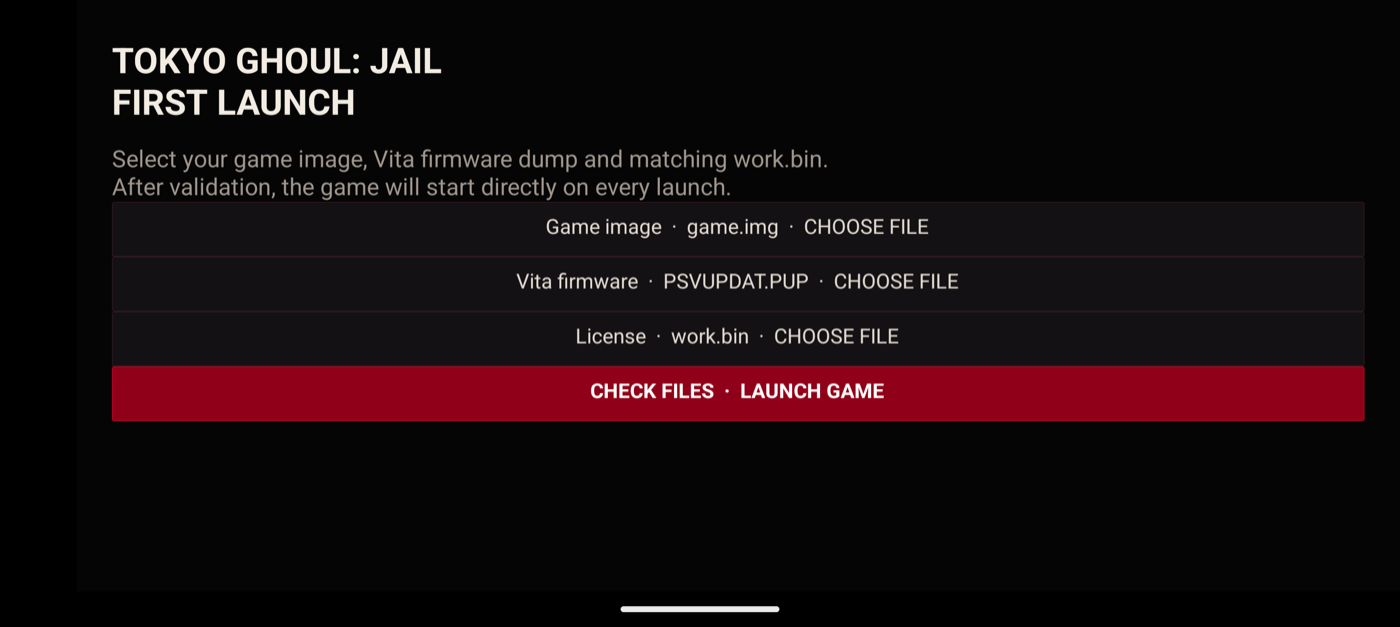
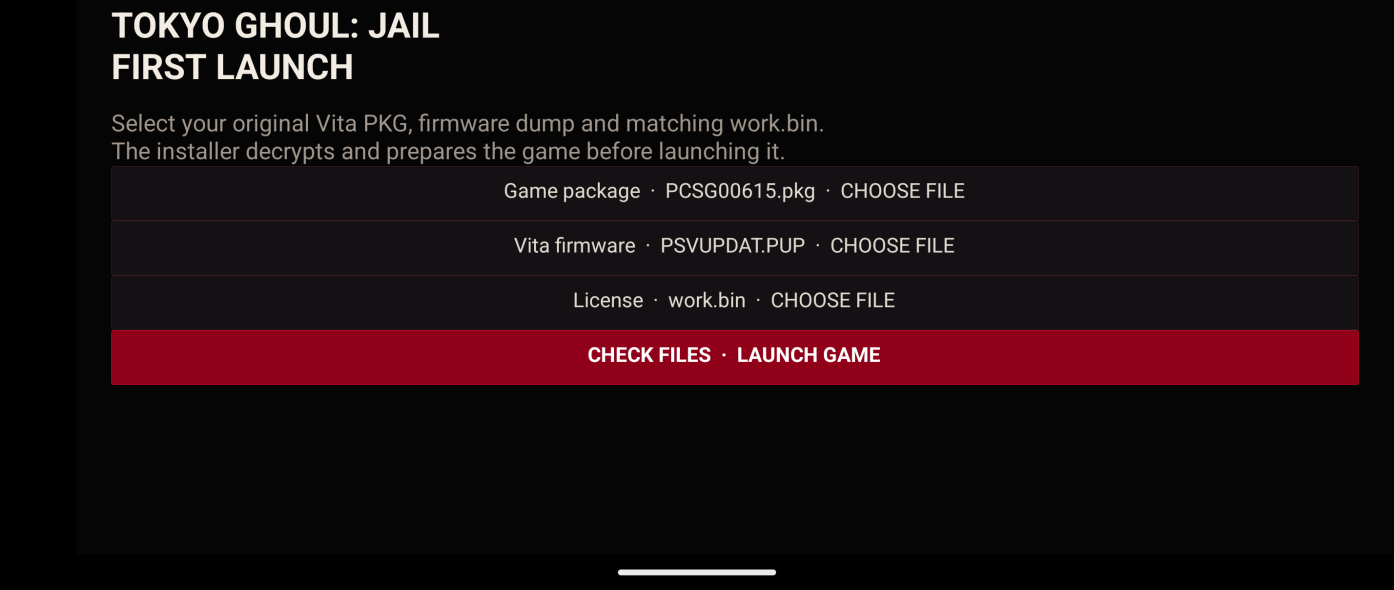
Update the Android launcher screenshot and instructions

Changed region(s): [[0.0617, 0.0, 0.9871, 0.6712], [0.4319, 0.9458, 0.5552, 0.9763]]

diff --git a/README.md b/README.md
@@ -171,8 +171,9 @@ device-specific details came out of that test:
   allocator when the system renderer draws the app window through Vulkan. The
   manifest therefore disables window hardware acceleration for the app; the
   game itself still renders through its own SDL Vulkan surface.
-- The APK checks that the game image starts with `VRIM`, so a `.pkg` or the
-  `app0` archive is rejected instead of crashing the runtime.
+- The APK validates the selected PKG before decrypting it: the container magic,
+  the PFS signatures and the matching `work.bin` are checked, so a wrong file
+  or licence is reported instead of crashing the runtime.
 
 ### Requirements
 
@@ -233,7 +234,7 @@ have a locally decrypted `app0` and prefer the ADB route.
 
 ### Controls
 
-On-screen buttons appear on the first touch and hide when a gamepad is used.
+On-screen buttons are visible from launch and hide when a gamepad is used.
 A Bluetooth or USB gamepad works out of the box.
 
 ### Tips
@@ -244,8 +245,8 @@ A Bluetooth or USB gamepad works out of the box.
   $ANDROID_HOME/emulator/emulator -avd <name> -gpu host
   ```
 
-- Real-phone battery use has not been measured yet; frame rate on the Galaxy
-  S25 Ultra matched the emulator during the launch and menu test.
+- The game was played through to the end on the Galaxy S25 Ultra; battery use
+  has not been measured yet.
 
 ## How it works
 
@@ -254,7 +255,8 @@ A Bluetooth or USB gamepad works out of the box.
 </p>
 
 1. **Your files** — the PKG, licence and firmware stay on your machine.
-2. **Prepare** — the package is decrypted and the Vita system libraries are
+2. **Prepare** — the package is decrypted (by the macOS launcher during setup,
+   or by the Android app on first launch) and the Vita system libraries are
    rebuilt from your firmware.
 3. **Recompile** — the game's ARMv7 code is analysed and translated to C, one
    function at a time.
@@ -275,6 +277,8 @@ game is stored in this repository.
 | Very slow rendering on macOS | The native toolchain is missing; run the launcher again so it can build it |
 | Android: `libSDL3.so not found` | Rebuild with `scripts/build_android.sh` |
 | Android: black screen after start | Run the in-app installer again (or delete the app data and reinstall) |
+| Android: `work.bin does not match this PKG` | Use the licence that belongs to this exact package; a licence from another edition or region is rejected |
+| Android: `the selected file is not a Vita PKG` | Select the retail `.pkg` itself, not a zip, ISO or extracted folder |
 | Want a fresh start | Delete `nativ/dump/` to decrypt and rebuild from scratch |
 
 To report a problem, enable **Settings → Write system log** and attach
